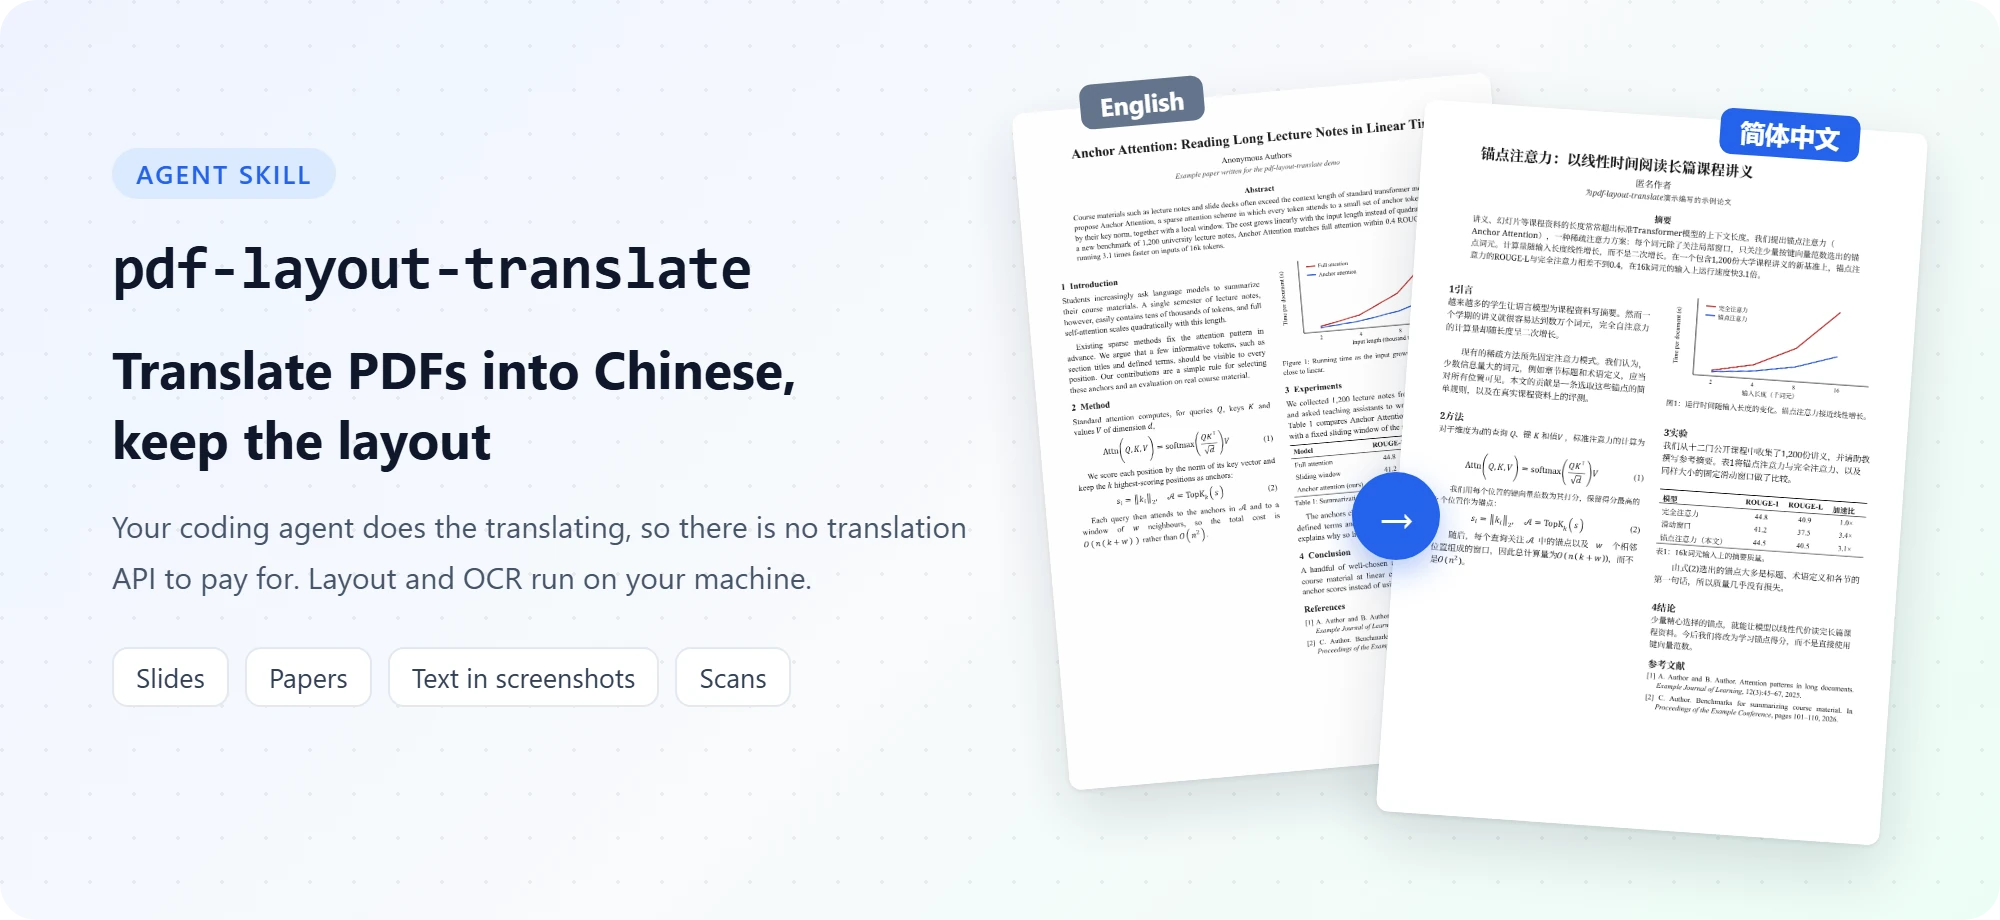
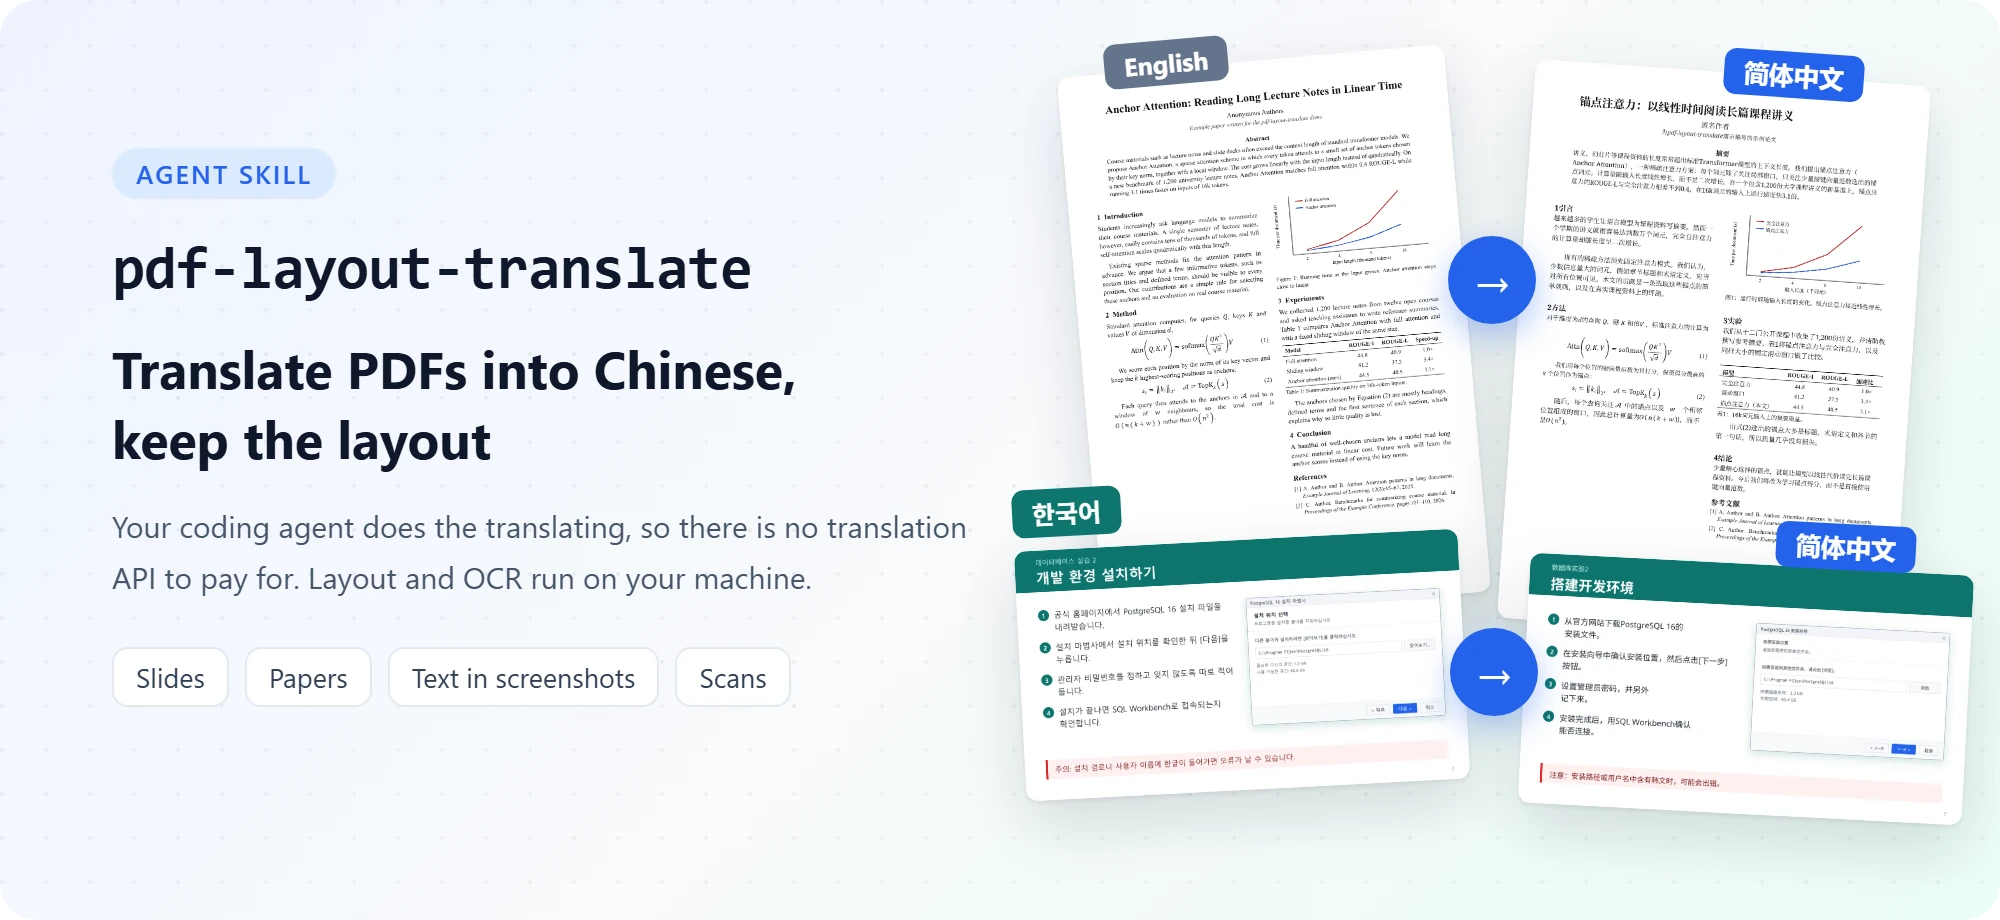
Hero images: add the Korean slide next to the English paper
All three hero images (zh, en, ko) now show two pairs: the English paper
and the Korean slide, each next to its Chinese translation. Alt texts
updated to match.

Changed region(s): [[0.496, 0.0304, 0.992, 0.913]]

diff --git a/README.ko.md b/README.ko.md
@@ -1,5 +1,5 @@
 <p align="center">
-  <img src="docs/images/hero-ko.webp" width="880" alt="pdf-layout-translate: 영어 논문을 중국어로 옮긴 뒤에도 제목, 수식, 그래프, 표가 원래 자리에 있다">
+  <img src="docs/images/hero-ko.webp" width="880" alt="pdf-layout-translate: 영어 논문과 한국어 슬라이드를 중국어로 옮긴 뒤에도 제목, 수식, 그래프, 표, 스크린샷이 원래 자리에 있다">
 </p>
 
 <p align="center">

diff --git a/README.en.md b/README.en.md
@@ -1,5 +1,5 @@
 <p align="center">
-  <img src="docs/images/hero-en.webp" width="880" alt="pdf-layout-translate: an English paper translated into Chinese, with the title, formulas, chart and table in their original places">
+  <img src="docs/images/hero-en.webp" width="880" alt="pdf-layout-translate: an English paper and a Korean slide translated into Chinese, with titles, formulas, chart, table and screenshot in their original places">
 </p>
 
 <p align="center">

diff --git a/README.md b/README.md
@@ -1,5 +1,5 @@
 <p align="center">
-  <img src="docs/images/hero-zh.webp" width="880" alt="pdf-layout-translate：英文论文译成中文后，标题、公式、图表和表格都在原来的位置">
+  <img src="docs/images/hero-zh.webp" width="880" alt="pdf-layout-translate：英文论文和韩文课件译成中文后，标题、公式、图表、表格和截图都在原来的位置">
 </p>
 
 <p align="center">
